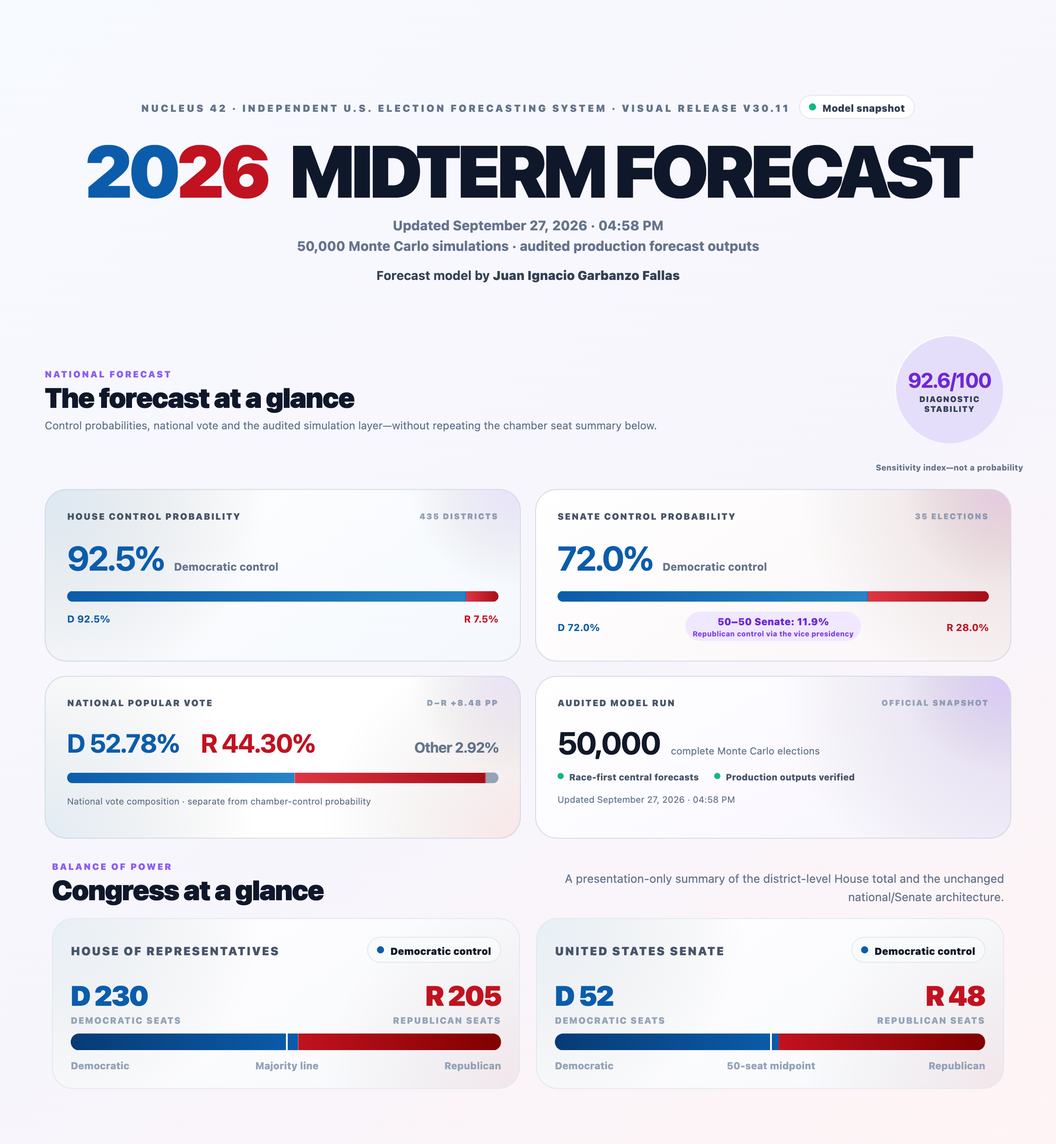
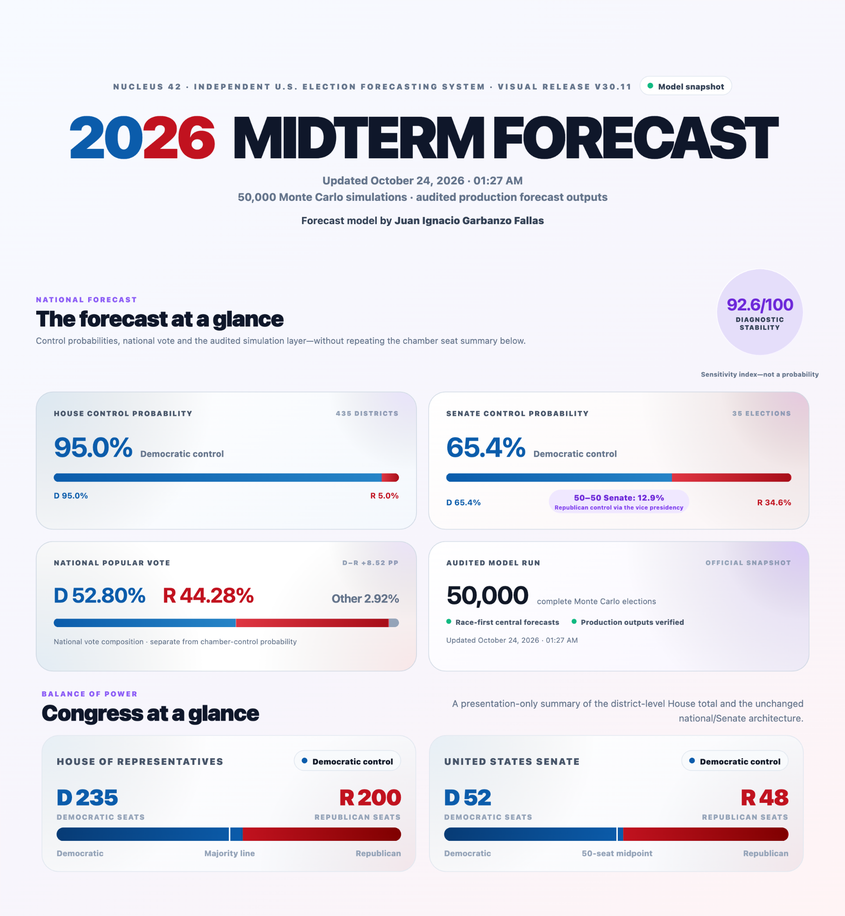
Refresh README gallery and document 15 monitored Senate races and historical scenarios

diff --git a/dash_app/views.py b/dash_app/views.py
@@ -502,7 +502,7 @@ def senate_view(signature: str):
     states = senate.sort_values("D Win Probability", key=lambda x:(x-50).abs())["STATE"].astype(str).tolist() if not senate.empty else []
     return html.Div([
         html.Section([
-            section_header("Senate battlefield", "Explore the Senate, race by race", "Interactive state desk for the official v30 central pattern. Explore the 12 monitored state models, holds/flips and all 35 scheduled elections without changing the forecast."),
+            section_header("Senate battlefield", "Explore the Senate, race by race", "Interactive state desk for the official v30 central pattern. Explore the 15 monitored state models and 20 structural-only races, holds/flips and all 35 scheduled elections without changing the forecast."),
             chamber_control_hero(b, "Senate"),
             seat_change_strip(b, "Senate"),
             html.Div([
@@ -893,7 +893,7 @@ def scenario_view(signature: str):
             section_header(
                 "COUNTERFACTUAL DATA LAB",
                 "Scenario Lab",
-                f"Adjust the observed national snapshot and rerun the v30.7 directed-causal, race-first counterfactual across 42 synchronized outputs, all 435 House districts, and all 35 scheduled Senate elections. Reset is exactly the current official central forecast: House D{official_house_d}–R{official_house_r} · Senate D{official_senate_d}–R{official_senate_r}.",
+                f"Adjust the observed national snapshot and rerun the v30.9 historical-local-response, race-first counterfactual across 42 synchronized outputs, all 435 House districts, and all 35 scheduled Senate elections. Reset is exactly the current official central forecast: House D{official_house_d}–R{official_house_r} · Senate D{official_senate_d}–R{official_senate_r}.",
             ),
             html.Div([
                 html.Div("SCENARIO · NEVER OVERWRITES THE OFFICIAL FORECAST", className="scenario-warning"),
@@ -907,7 +907,7 @@ def scenario_view(signature: str):
                 html.Div([
                     html.Div("Build the counterfactual", className="panel-title"),
                     html.P(
-                        "Battery arithmetic is applied while dragging. On release, the same v30.7 directed-causal contract embedded in All-in-One reconciles the national state and applies one synchronized D−R swing to popular vote and both race-first maps.",
+                        "Battery arithmetic is applied while dragging. On release, the same v30.9 historical-local-response contract embedded in All-in-One reconciles the national state and applies one synchronized D−R swing to popular vote and both race-first maps.",
                         className="scenario-copy",
                     ),
                 ], className="scenario-slider-intro"),
@@ -992,3 +992,4 @@ def render_tab(tab: str, signature: str):
         "validation": validation_view,
         "scenario": scenario_view,
     }.get(tab, overview_view)(signature)
+

diff --git a/dash_app/scenario_engine.py b/dash_app/scenario_engine.py
@@ -1,6 +1,6 @@
 """Native Dash adapter for the canonical Nucleus 42 v30 Scenario Lab.
 
-The standalone publication HTML owns the serialized v30.7 directed-causal
+The standalone publication HTML owns the serialized v30.9 historical-local-response
 scenario contract. This module reads that exact payload and exposes the Python
 API used by the native Dash views. All-in-One and the independent Dash Scenario
 Lab therefore share one engine without touching the official forecast model.
@@ -268,3 +268,4 @@ OFFICIAL_BASELINE_HEADLINE = {
 @lru_cache(maxsize=2)
 def load_scenario_engine(model_path: str, model_mtime_ns: int | None = None):
     return NationalScenarioEngine(_PAYLOAD)
+

diff --git a/README.md b/README.md
@@ -5,6 +5,7 @@
 <p align="center">
   <img alt="Release v30.11" src="https://img.shields.io/badge/release-v30.11-7C3AED?style=flat-square">
   <img alt="House 435" src="https://img.shields.io/badge/House-435%20districts-0B67C2?style=flat-square">
+  <img alt="Senate coverage: 15 monitored, 20 structural" src="https://img.shields.io/badge/Senate%20coverage-15%20monitored%20%C2%B7%2020%20structural-7C3AED?style=flat-square">
   <img alt="Senate 35" src="https://img.shields.io/badge/Senate-35%20elections-C91224?style=flat-square">
   <img alt="National targets 42" src="https://img.shields.io/badge/national%20targets-42-8B5CF6?style=flat-square">
   <img alt="Monte Carlo 50000" src="https://img.shields.io/badge/Monte%20Carlo-50%2C000-111827?style=flat-square">
@@ -38,9 +39,9 @@ Screenshots illustrate particular model runs. Their numbers are examples of exec
 |---|---|
 | National model | 42 targets covering voting intentions, political context, ideology, partisanship, presidential approval, and economic perceptions |
 | House forecast | 435 voting districts, with margins, winners, ratings, probabilities, holds, flips, a geographic map, and a cartogram |
-| Senate forecast | 35 scheduled elections, combining monitored races and structural estimates |
+| Senate forecast | 35 scheduled elections: **15 monitored polling races + 20 structural-only races** |
 | Uncertainty | 50,000 complete simulated elections and chamber-control distributions |
-| Scenario Lab | 31 controls in 14 intervention units, with constrained reconciliation and race-level effects |
+| Scenario Lab | 31 sliders in 14 intervention units; five historical environments; constrained reconciliation and race-specific responses |
 | Race Cards | 470 race profiles with candidate identities, portraits, forecast results, presidential history, and demographic context |
 | Publication | A self-contained HTML file for local viewing and web hosting |
 
@@ -48,7 +49,7 @@ Screenshots illustrate particular model runs. Their numbers are examples of exec
 
 | Resource | Purpose |
 |---|---|
-| [Forecast notebook](NUCLEUS42_v30_11_3_FINAL_MARGIN_RATINGS.ipynb) | Runs the complete modeling and publication pipeline |
+| [Forecast notebook](NUCLEUS42_v30.ipynb) | Runs the complete modeling and publication pipeline |
 | [Interactive forecast](NUCLEUS42_v30_RaceCards.html) | Generated HTML with forecasts, maps, Race Cards, and Scenario Lab |
 | [Input workbook](Model.xlsx) | Canonical source workbook |
 | [Consolidated report](outputs/Election_Model_Final_Report_v30.xlsx) | Model outputs, race detail, validation, and audits |
@@ -115,7 +116,9 @@ The interface provides geographic and cartogram views, margins, win probabilitie
   <img src="assets/readme/v30-senate.png" alt="NUCLEUS 42 Senate forecast" width="86%">
 </p>
 
-The Senate forecast covers all 35 scheduled elections. Monitored races use the model's selected polling engine where applicable; other races use structural estimates.
+The Senate forecast covers **all 35 scheduled elections: 15 monitored races and 20 structural-only races**. The monitored set includes **South Carolina, Florida, and Minnesota**, alongside the previously monitored states. Minnesota is now included in the polling layer as part of the expanded competitive-race coverage.
+
+Each monitored state uses the established polling engine; the other 20 races retain structural estimates. Adding a monitored state updates that race's input coverage. It does not introduce a new forecast method for the other states. Strong outlines identify monitored states on the Senate map.
 
 The chamber balance combines projected winners in these elections with seats that are not up for election.
 
@@ -173,7 +176,28 @@ It begins at the official forecast baseline. Changes pass through historically s
 
 Composition controls remain coherent, protected exogenous inputs do not receive reverse feedback, and political and economic effects are interpreted relative to the presidential incumbent party.
 
-Scenario Lab uses the `v30.8-reciprocal-standing-race-first` engine. Presidential approval and direction-of-country measures reconcile through a bounded, historically regularized bridge.
+#### Sliders and historical environments
+
+**31 sliders, 14 intervention units, five historical presets.** Adjust approval, direction of country, ideology, party identification, partisan lean, party favorability, unemployment, inflation, economic perceptions, job-market perceptions, the previous presidential result, and generic-ballot polling.
+
+| Control | What it does |
+|---|---|
+| **Historical environment** | Loads the observed starting conditions for **2006, 2010, 2014, 2018, or 2022**, directly from the workbook's historical `Model` rows |
+| **Sliders** | Allow manual changes after loading a historical environment; the interface identifies the selected environment and manual edits |
+| **Reconciliation** | Keeps composition batteries feasible, respects direct edits, and protects exogenous inputs from reverse feedback |
+| **Local race response** | Translates the national two-party impulse into regularized district- and state-specific shifts across 435 House and 35 Senate races |
+| **Coherence diagnostic** | Shows how far the constructed environment departs from the observed historical reference |
+| **Exports and Reset** | Downloads the scenario view or race CSV; Reset restores the exact official 2026 baseline |
+
+<p align="center">
+  <img src="assets/readme/scenario-historical-environments.png" alt="Scenario Lab historical environment selector and national intervention sliders" width="86%">
+</p>
+
+Selecting **2006**, for example, applies that year's observed national conditions hypothetically to the **2026 races and candidates**. It does not rerun or predict the 2006 election. You can then edit individual sliders to explore a different environment.
+
+Scenario Lab uses the `v30.9-historical-local-response` contract. Approval and direction of country retain their bounded reciprocal bridge; local House and Senate responses are estimated separately and strongly regularized. The race CSV reports the actual shift applied to each race.
+
+These are exploratory sensitivities. Moving a slider does not retrain the forecast, change the input workbook, or recompute official Monte Carlo win probabilities. See the [Scenario Lab guide](docs/SCENARIO_LAB.md) for assumptions and limitations.
 
 > [!NOTE]
 > Scenario Lab results are exploratory scenarios. They do not replace the official forecast or update the source workbook.
@@ -219,14 +243,14 @@ Run these commands from the repository root:
 python -m venv .venv
 source .venv/bin/activate
 pip install -r requirements.txt
-jupyter lab NUCLEUS42_v30_11_3_FINAL_MARGIN_RATINGS.ipynb
+jupyter lab NUCLEUS42_v30.ipynb
 ```
 
 Before executing the notebook:
 
 1. Place the intended input workbook at `Model.xlsx`.
 2. Keep the notebook, scripts, and visual resources together in the project folder.
-3. Confirm that the notebook's project root points to that folder.
+3. Confirm that the notebook's project root points to that folder. On macOS with iCloud Drive, keep the project folder downloaded locally so portrait loading does not wait for cloud downloads.
 4. Restart the kernel and select **Run All**.
 5. Wait for the final validation block to complete.
 
@@ -257,7 +281,7 @@ python dash_app/check_setup.py
 
 | Location | Contents |
 |---|---|
-| `NUCLEUS42_v30_11_3_FINAL_MARGIN_RATINGS.ipynb` | Modeling and publication notebook |
+| `NUCLEUS42_v30.ipynb` | Modeling and publication notebook |
 | `NUCLEUS42_v30_RaceCards.html` | Generated interactive publication |
 | `Model.xlsx` | Canonical input workbook |
 | `outputs/` | Reports, model outputs, and audits |

diff --git a/docs/SCENARIO_LAB.md b/docs/SCENARIO_LAB.md
@@ -2,12 +2,17 @@
 
 The official v30 forecast, 42-target statistical engine, input workbook, and Monte Carlo remain unchanged. The Scenario Lab is an **exploratory, downstream counterfactual**, not a new probabilistic forecast.
 
+**31 sliders / 14 intervention units:** Controls cover presidential approval, direction of country, ideology, party identification and lean, party favorability, economic indicators and perceptions, the job market, the previous presidential result, and generic-ballot polls. Historical reference ranges are shown beside the controls.
+
 **Historic environments:** A selector beside the scenario CSV download offers 2006, 2010, 2014, 2018, and 2022. All 31 starting control values are read from the `Model` sheet of the unmodified `Model.xlsx`, using each row's `Midterm Year`. This compares the observed conditions of those years applied hypothetically to the **2026** races and candidates. It does **not** predict the election results of those historical years. The 2026 default is preserved; users may edit the controls after selecting a year; `Reset` restores the official 2026 state.
 
 The workbook stores some economic percentages as fractions and others as whole percentage points. Within the three economic composition batteries, the Scenario Lab now normalizes such values **per cell** rather than rescaling entire rows indiscriminately. Any observation exceeding a hard 100% composition constraint is projected to the feasible composition; the UI should not display an impossible battery.
 
 **Race-specific scenario response:** National intervention logic produces a national two-party D−R margin impulse. Each of the 435 House races and 35 Senate races is then adjusted by its own geographical response factor, estimated from matched 2016/2020/2024 presidential vote margins and strongly ridge-shrunk toward a unit national response. House district and Senate state factors are fitted separately. The panel and exported CSV report the **actual per-race applied shift**, not the national impulse. At-large `-AL` IDs map to their `-01` equivalents in the historical source.
 
+**Interface and exports:** The interface identifies the selected historic environment and subsequent manual edits, reports a coherence diagnostic, and updates House and Senate scenario maps. Download the scenario image or race CSV; the CSV includes the actual applied race shift. Reset restores the official 2026 baseline.
+
 **Scientific limitation:** There are only two presidential-election transitions for fitting each local response. These are descriptive sensitivities, not validated causal impacts or a fully trained 470-target counterfactual. A shared national macro impulse can still move all local contests in the same direction: opposite signs are permitted by the formula if supported by evidence, not manufactured for visual variety. Other localized candidate shocks and geographically heterogeneous macro effects cannot be inferred rigorously from the five national midterm rows alone.
 
 **Hard requirements:** At zero interventions the Scenario Lab is identical to the official 2026 popular vote, House and Senate central result. Scenario adjustments never overwrite `Model.xlsx` or the official report and never change Monte Carlo probabilities. Each selected year and manual edit must preserve composition constraints. Render serves the HTML the notebook generates. The Python adapter in `dash_app/scenario_engine.py` reads the same serialized HTML contract.
+

diff --git a/MODEL_CARD.md b/MODEL_CARD.md
@@ -2,11 +2,12 @@
 
 ## Summary
 
-Nucleus 42 is a reproducible forecasting system for the 2026 U.S. midterm elections. It estimates the national political environment, all 435 voting House districts, and all 35 scheduled Senate elections; it also produces uncertainty distributions, validation artifacts, and an exploratory Scenario Lab.
+Nucleus 42 is a reproducible forecasting system for the 2026 U.S. midterm elections. It estimates the national political environment, all 435 voting House districts, and all 35 scheduled Senate elections (15 monitored and 20 structural-only); it also produces uncertainty distributions, validation artifacts, and an exploratory Scenario Lab.
 
 **Developer:** Juan Ignacio Garbanzo Fallas  
 **Release:** 30.11.0  
-**Publication date:** 2026-09-27  
+**Initial publication date:** 2026-09-27  
+**Documentation updated:** 2026-10-24  
 **License:** MIT
 
 ## Intended uses
@@ -29,6 +30,8 @@ Nucleus 42 is a reproducible forecasting system for the 2026 U.S. midterm electi
 
 The versioned `Model.xlsx` workbook contains current-cycle, historical, rating, polling, candidate, and control data. The executed notebook performs schema and provenance checks; national forecasting and nested temporal validation; constraint and sensitivity analysis; House and Senate race-level forecasting; complete-election Monte Carlo simulation; Scenario Lab serialization; report and HTML publication; and post-publication release gating.
 
+The monitored Senate set now includes South Carolina, Florida, and Minnesota. Polling coverage uses the existing monitored-race method; the other 20 races retain structural estimates.
+
 ## Validation
 
 National and race-level components use time-aware historical evaluation. The release contains out-of-fold diagnostics, probability scores, calibration summaries, feature and leakage contracts, covariance checks, central-forecast contracts, and a final publication gate.
@@ -37,7 +40,7 @@ The package validator confirms the expected v30 artifacts, 18 code cells, 435 Ho
 
 ## Scenario Lab
 
-Scenario Lab contains 31 controls organized into 14 intervention units. It preserves the exact official baseline at zero intervention. Composition batteries are constrained, protected exogenous variables do not receive reverse feedback, and the reconciled national state is translated into a common two-party swing before race-level winners are recomputed.
+Scenario Lab contains 31 controls organized into 14 intervention units, with historical starting environments for 2006, 2010, 2014, 2018, and 2022. These conditions are applied to the 2026 races; they are not forecasts of past elections. It preserves the exact official baseline at zero intervention. Composition batteries are constrained, protected exogenous variables do not receive reverse feedback, and the reconciled national state is translated into a national two-party impulse and regularized race-specific responses before race-level winners are recomputed.
 
 It is a counterfactual presentation/runtime layer. It does not overwrite the official forecast and does not rerun the full Monte Carlo distribution for every slider movement.
 
@@ -56,4 +59,5 @@ Forecasts are conditional on available inputs and modeling assumptions. Error ma
 ## Human oversight
 
 Source refreshes, mapping overrides, data exclusions, method promotion, and publication remain subject to documented human review. The model supports judgment; it does not eliminate it.
+
 

diff --git a/docs/METHODOLOGY.md b/docs/METHODOLOGY.md
@@ -9,9 +9,9 @@ Nucleus 42 forecasts the 2026 national two-party environment, all 435 voting Hou
 1. `Model.xlsx` is validated as the release input snapshot.
 2. The national module estimates 42 political and economic targets with time-aware validation.
 3. The House module builds one tuple per district: margin, probability, rating, winner, hold/flip, and source diagnostics.
-4. The Senate module evaluates all scheduled races. Monitored states use the selected state specification; structural races remain explicit and auditable.
+4. The Senate module evaluates all scheduled races. The 15 monitored states use the established polling engine, including South Carolina, Florida, and Minnesota; the remaining 20 structural-only races remain explicit and auditable.
 5. Monte Carlo draws complete elections, preserving cross-race uncertainty, and estimates chamber-control probability.
-6. A coherent central configuration is selected and audited independently from the simulation mode.
+6. Each race winner follows the sign of its official point margin; those winners are summed and audited independently from the simulation mode.
 7. Release gates validate identities, isolation rules, row counts, probabilities, and publication consistency before the report and HTML are exported.
 
 ## Validation
@@ -27,10 +27,11 @@ The race point forecast, race win probability, chamber control probability, expe
 The canonical public snapshot consists of:
 
 - `Model.xlsx`
-- `NUCLEUS42_v30_11_FINAL_PUBLICATION_RELEASE.ipynb`
+- `NUCLEUS42_v30.ipynb`
 - `outputs/Election_Model_Final_Report_v30.xlsx`
 - `NUCLEUS42_v30_RaceCards.html`
 
 These files must be regenerated and published together. The Dash layer reads them; it does not retrain or mutate the model.
 
 For intended use and limitations, see [MODEL_CARD.md](../MODEL_CARD.md). For counterfactual behavior, see [SCENARIO_LAB.md](SCENARIO_LAB.md).
+

diff --git a/CHANGELOG.md b/CHANGELOG.md
@@ -1,5 +1,15 @@
 # Changelog
 
+## Documentation and gallery refresh — 2026-10-24
+
+- Documented current Senate coverage: 15 monitored races and 20 structural-only races, including South Carolina, Florida and Minnesota.
+- Replaced Overview, House and Senate gallery exports; retained Race Card examples and the existing Scenario Lab overview.
+- Added the historical-environment and slider illustration.
+- Documented five workbook-backed environments, manual slider edits, coherence diagnostics, local race responses, CSV exports and exact Reset.
+- Corrected notebook links and current Scenario Lab contract references.
+- This commit updates documentation, screenshots and auxiliary interface wording; it does not modify forecasting equations, workbook data or generated forecasts.
+
+
 ## 30.11.1 — 2026-09-28
 
 Focused web and Scenario Lab patch; official forecast outputs are unchanged.
@@ -13,7 +23,7 @@ Focused web and Scenario Lab patch; official forecast outputs are unchanged.
 
 Final v30 publication release.
 
-- Established one unified 35-race Senate architecture: 12 monitored races and 23 structural races.
+- Established one unified 35-race Senate architecture: an initial monitored subset and its structural complement.
 - Preserved the validated national popular-vote and House race-first architecture.
 - Added explicit Montana independent-share handling.
 - Promoted Scenario Lab to `v30.7-directed-causal-race-first`.
@@ -27,3 +37,4 @@ Final v30 publication release.
 ## Historical development
 
 Earlier releases iterated on the national model, House uncertainty, Senate polling, visual presentation, and Scenario Lab. They remain part of repository history, but v30.11 is the current public contract.
+

diff --git a/docs/DATA_SOURCES.md b/docs/DATA_SOURCES.md
@@ -6,7 +6,9 @@
 
 The workbook combines national indicators, historical election results, generic-ballot and race polling, ratings, candidate/incumbency information, district and state fundamentals, and source-control metadata. Each sheet has a defined modeling or audit role; retired aggregate result buckets are not allowed to re-enter production predictors.
 
-Senate polling sources are included through the Senate parser/source controls when active in the workbook. A retired third-party API is not equivalent to retiring the Senate polling parser itself.
+Senate polling sources are included through the Senate parser/source controls when active in the workbook. The current coverage is 15 monitored races and 20 structural-only races; South Carolina, Florida, and Minnesota are connected to the same polling layer. A retired third-party API is not equivalent to retiring the Senate polling parser itself.
+
+Historical environment presets use the five completed midterm rows (2006, 2010, 2014, 2018, 2022) in the `Model` sheet. They seed Scenario Lab controls and do not replace current forecast inputs.
 
 ## Refresh rules
 
@@ -17,3 +19,4 @@ Senate polling sources are included through the Senate parser/source controls wh
 5. Publish the notebook, consolidated report, HTML and workbook together.
 
 The repository does not contain credentials. Do not commit private API keys, service-account files, browser sessions or unpublished personal data.
+

diff --git a/docs/PUBLISHING.md b/docs/PUBLISHING.md
@@ -13,7 +13,16 @@ python dash_app/check_setup.py
 python -m compileall -q dash_app
 ```
 
-5. Launch `python dash_app/app.py` and inspect the autonomous HTML application, Reset, maps, hovers and tables.
+5. Confirm the Senate coverage is 15 monitored / 20 structural-only in the workbook, report and HTML. Include South Carolina, Florida and Minnesota in the monitored layer.
+6. Launch `python dash_app/app.py` and inspect the autonomous HTML application, Reset, maps, hovers and tables.
+
+## Documentation and screenshot refresh
+
+- Replace `assets/readme/v30-overview.png`, `v30-house.png`, and `v30-senate.png` with exports from the same completed publication.
+- Keep Race Card examples and the existing Scenario Lab overview unless their interface changes.
+- Use `assets/readme/scenario-historical-environments.png` to illustrate the historical selector and sliders.
+- Describe functionality and coverage in the README; avoid hard-coding mutable forecast percentages or seat predictions in its prose.
+- Check every notebook link against the actual repository filename.
 
 ## GitHub release
 
@@ -31,3 +40,4 @@ After the commit is available on the configured branch, allow the Blueprint to r
 - a report and HTML generated from different workbooks;
 - credentials or private configuration;
 - cached environments, notebook checkpoints, or duplicate macOS metadata files.
+

diff --git a/docs/WEB_DEPLOYMENT_ZERO_COST.md b/docs/WEB_DEPLOYMENT_ZERO_COST.md
@@ -6,7 +6,7 @@ The repository includes `render.yaml` for a single free-plan web service.
 
 - `/` serves the exact autonomous HTML produced by the notebook as the complete application.
 - The HTML itself contains Overview, House, Senate, Probability, Simulation, Context, Validation and Scenario Lab.
-- Scenario Lab reads the embedded v30.8 payload; there is no second native implementation to drift out of sync.
+- Scenario Lab reads the embedded `v30.9-historical-local-response` payload, including five historical environments and local race responses; there is no second native implementation to drift out of sync.
 - `/healthz` verifies that the publication HTML is available.
 
 ## Deploy
@@ -25,3 +25,4 @@ python scripts/validate_repository.py
 ```
 
 The free service may sleep when idle; that affects startup time, not model outputs. The Flask process is only a file server and does not calculate forecasts.
+

diff --git a/dash_app/README.md b/dash_app/README.md
@@ -4,7 +4,7 @@ This is the interactive Render layer for the v30.11 release.
 
 - `All-in-One` embeds the autonomous notebook publication.
 - The remaining analytical tabs are native Dash views of `outputs/Election_Model_Final_Report_v30.xlsx`.
-- `Scenario Lab` reads the canonical v30.7 payload from the autonomous HTML and preserves the exact official race-first baseline.
+- `Scenario Lab` reads the canonical `v30.9-historical-local-response` payload from the autonomous HTML and preserves the exact official race-first baseline.
 - The app is read-only with respect to `Model.xlsx`, the notebook and generated outputs.
 
 Run locally from the repository root:
@@ -16,3 +16,4 @@ python dash_app/app.py
 ```
 
 Then open `http://127.0.0.1:8050`.
+

diff --git a/RELEASE_NOTES_v30.11.1.md b/RELEASE_NOTES_v30.11.1.md
@@ -1,5 +1,7 @@
 # Nucleus 42 v30.11.1
 
+> Historical release notes for the September 28 patch. For the current 15 monitored / 20 structural-only coverage and Scenario Lab v30.9 interface, see the [README](README.md), [Scenario Lab guide](docs/SCENARIO_LAB.md), and [changelog](CHANGELOG.md).
+
 Focused Scenario Lab and web-delivery patch. The official forecast, workbook,
 race baselines, chamber totals, Monte Carlo outputs and validation report are
 unchanged from v30.11.0.
@@ -28,3 +30,4 @@ unchanged from v30.11.0.
 - Publication setup checks: 24/24 passed.
 - Repository contract checks: 37/37 passed.
 - JavaScript syntax and both directions of the standing bridge were exercised.
+
